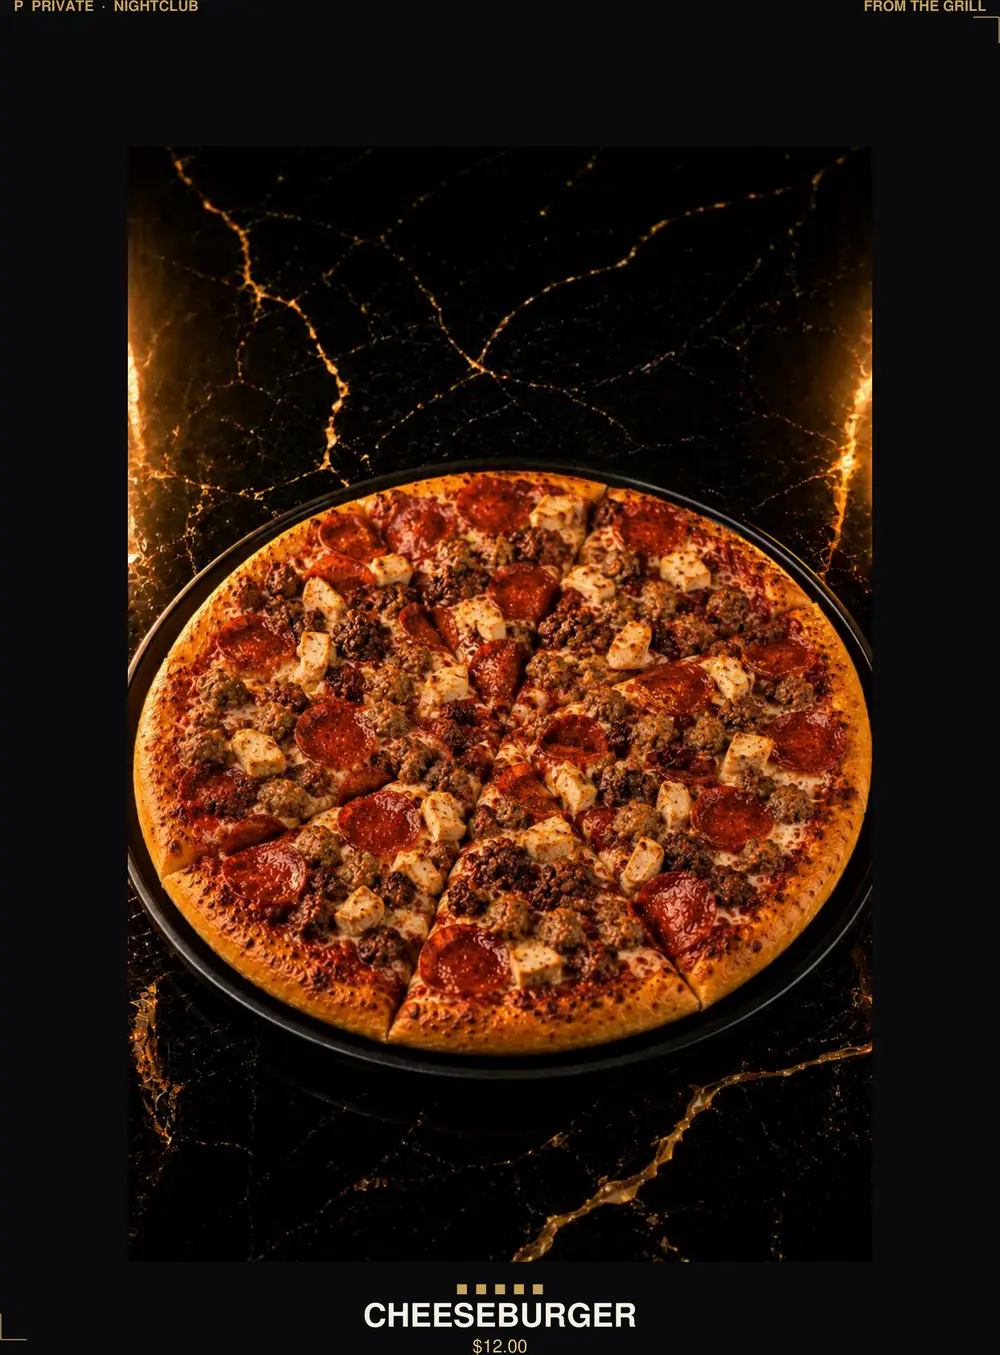
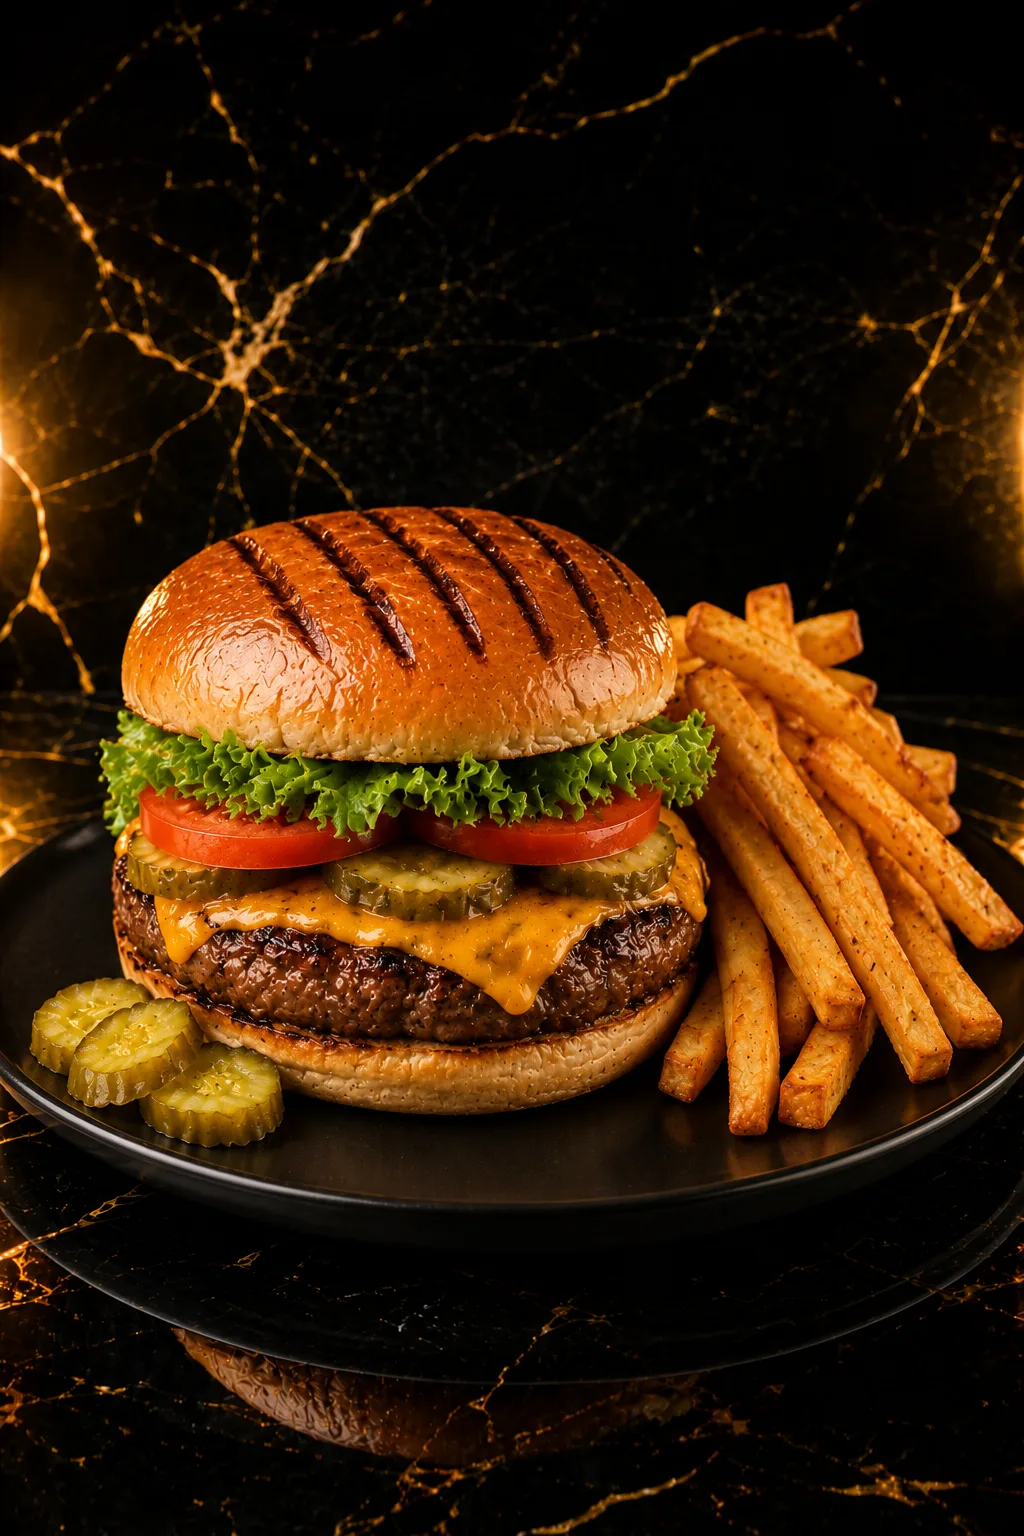
Menu: owner-supplied cheeseburger + cheese pizza photos
Replace the cheeseburger image (was showing a pizza) with the owner's real
cheeseburger photo, and the cheese pizza with the owner's clean cheese pie.
Both dropped into the existing food-16 / food-19 slots the menu points at.

Claude-Session: https://claude.ai/code/session_01LArLZQWeNJkpCk8BASdQG5

diff --git a/private-nightclub/src/lib/site.ts b/private-nightclub/src/lib/site.ts
@@ -268,7 +268,7 @@ export const foodSelectItems: MenuSelectItem[] = [
   // FROM THE GRILL
   { name: "All Beef Hot Dog", category: "From the Grill", price: "7", note: "Quarter-pound all-beef dog.", img: "/menu/food/food-17.webp" }, // PHOTO shows bites — regenerate
   { name: "Hamburger", category: "From the Grill", price: "10", note: "Char-grilled all-beef patty, brioche bun.", img: "/menu/food/food-20.webp" }, // real burger photo (baked-in label crops out)
-  { name: "Cheeseburger", category: "From the Grill", price: "12", note: "Char-grilled, American cheese.", img: "/menu/food/food-16.webp" }, // PHOTO shows pizza — regenerate
+  { name: "Cheeseburger", category: "From the Grill", price: "12", note: "Char-grilled, American cheese.", img: "/menu/food/food-16.webp" }, // owner-supplied photo
   // PIZZA — cheese; pepperoni is the popular topping (+$2)
   { name: "Cheese Pizza", category: "Pizza", price: "12 / 14", note: "10-inch $12 · 12-inch $14. Add toppings.", img: "/menu/food/food-19.webp" },
   { name: "Pepperoni Pizza", category: "Pizza", price: "14 / 16", note: "Cheese pizza + pepperoni. 10-inch $14 · 12-inch $16.", img: "/menu/food/food-21.webp" },